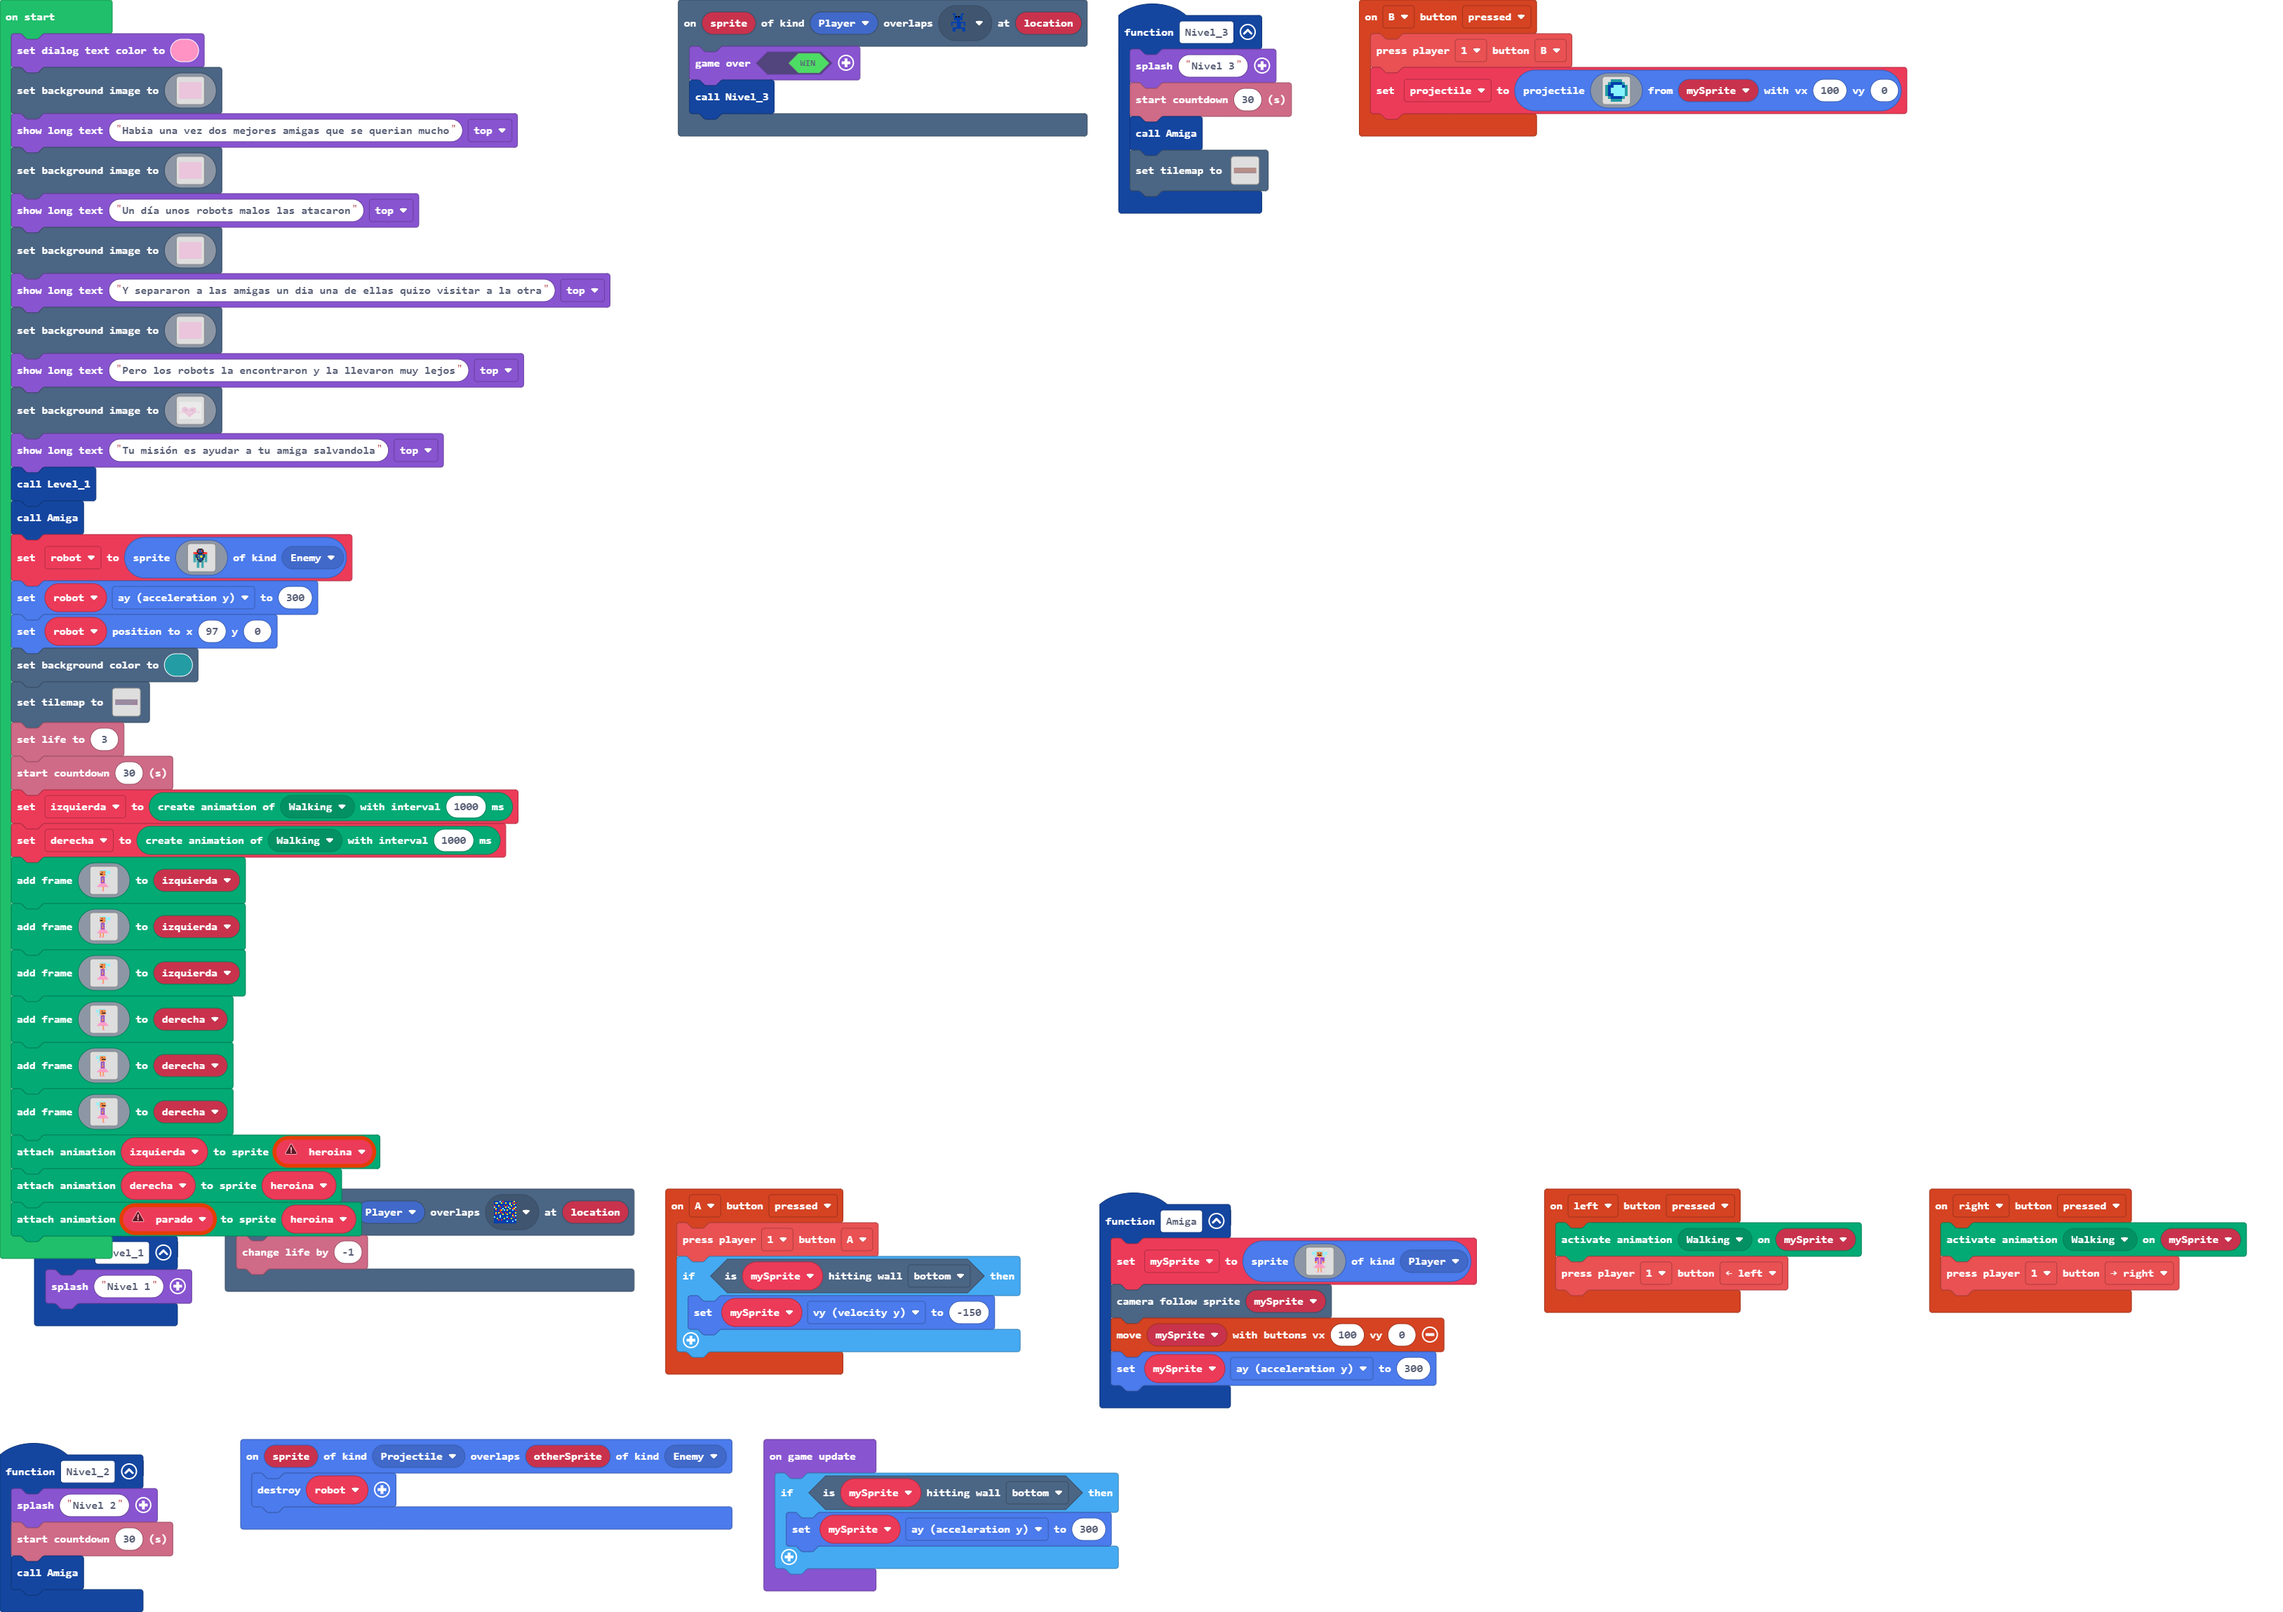
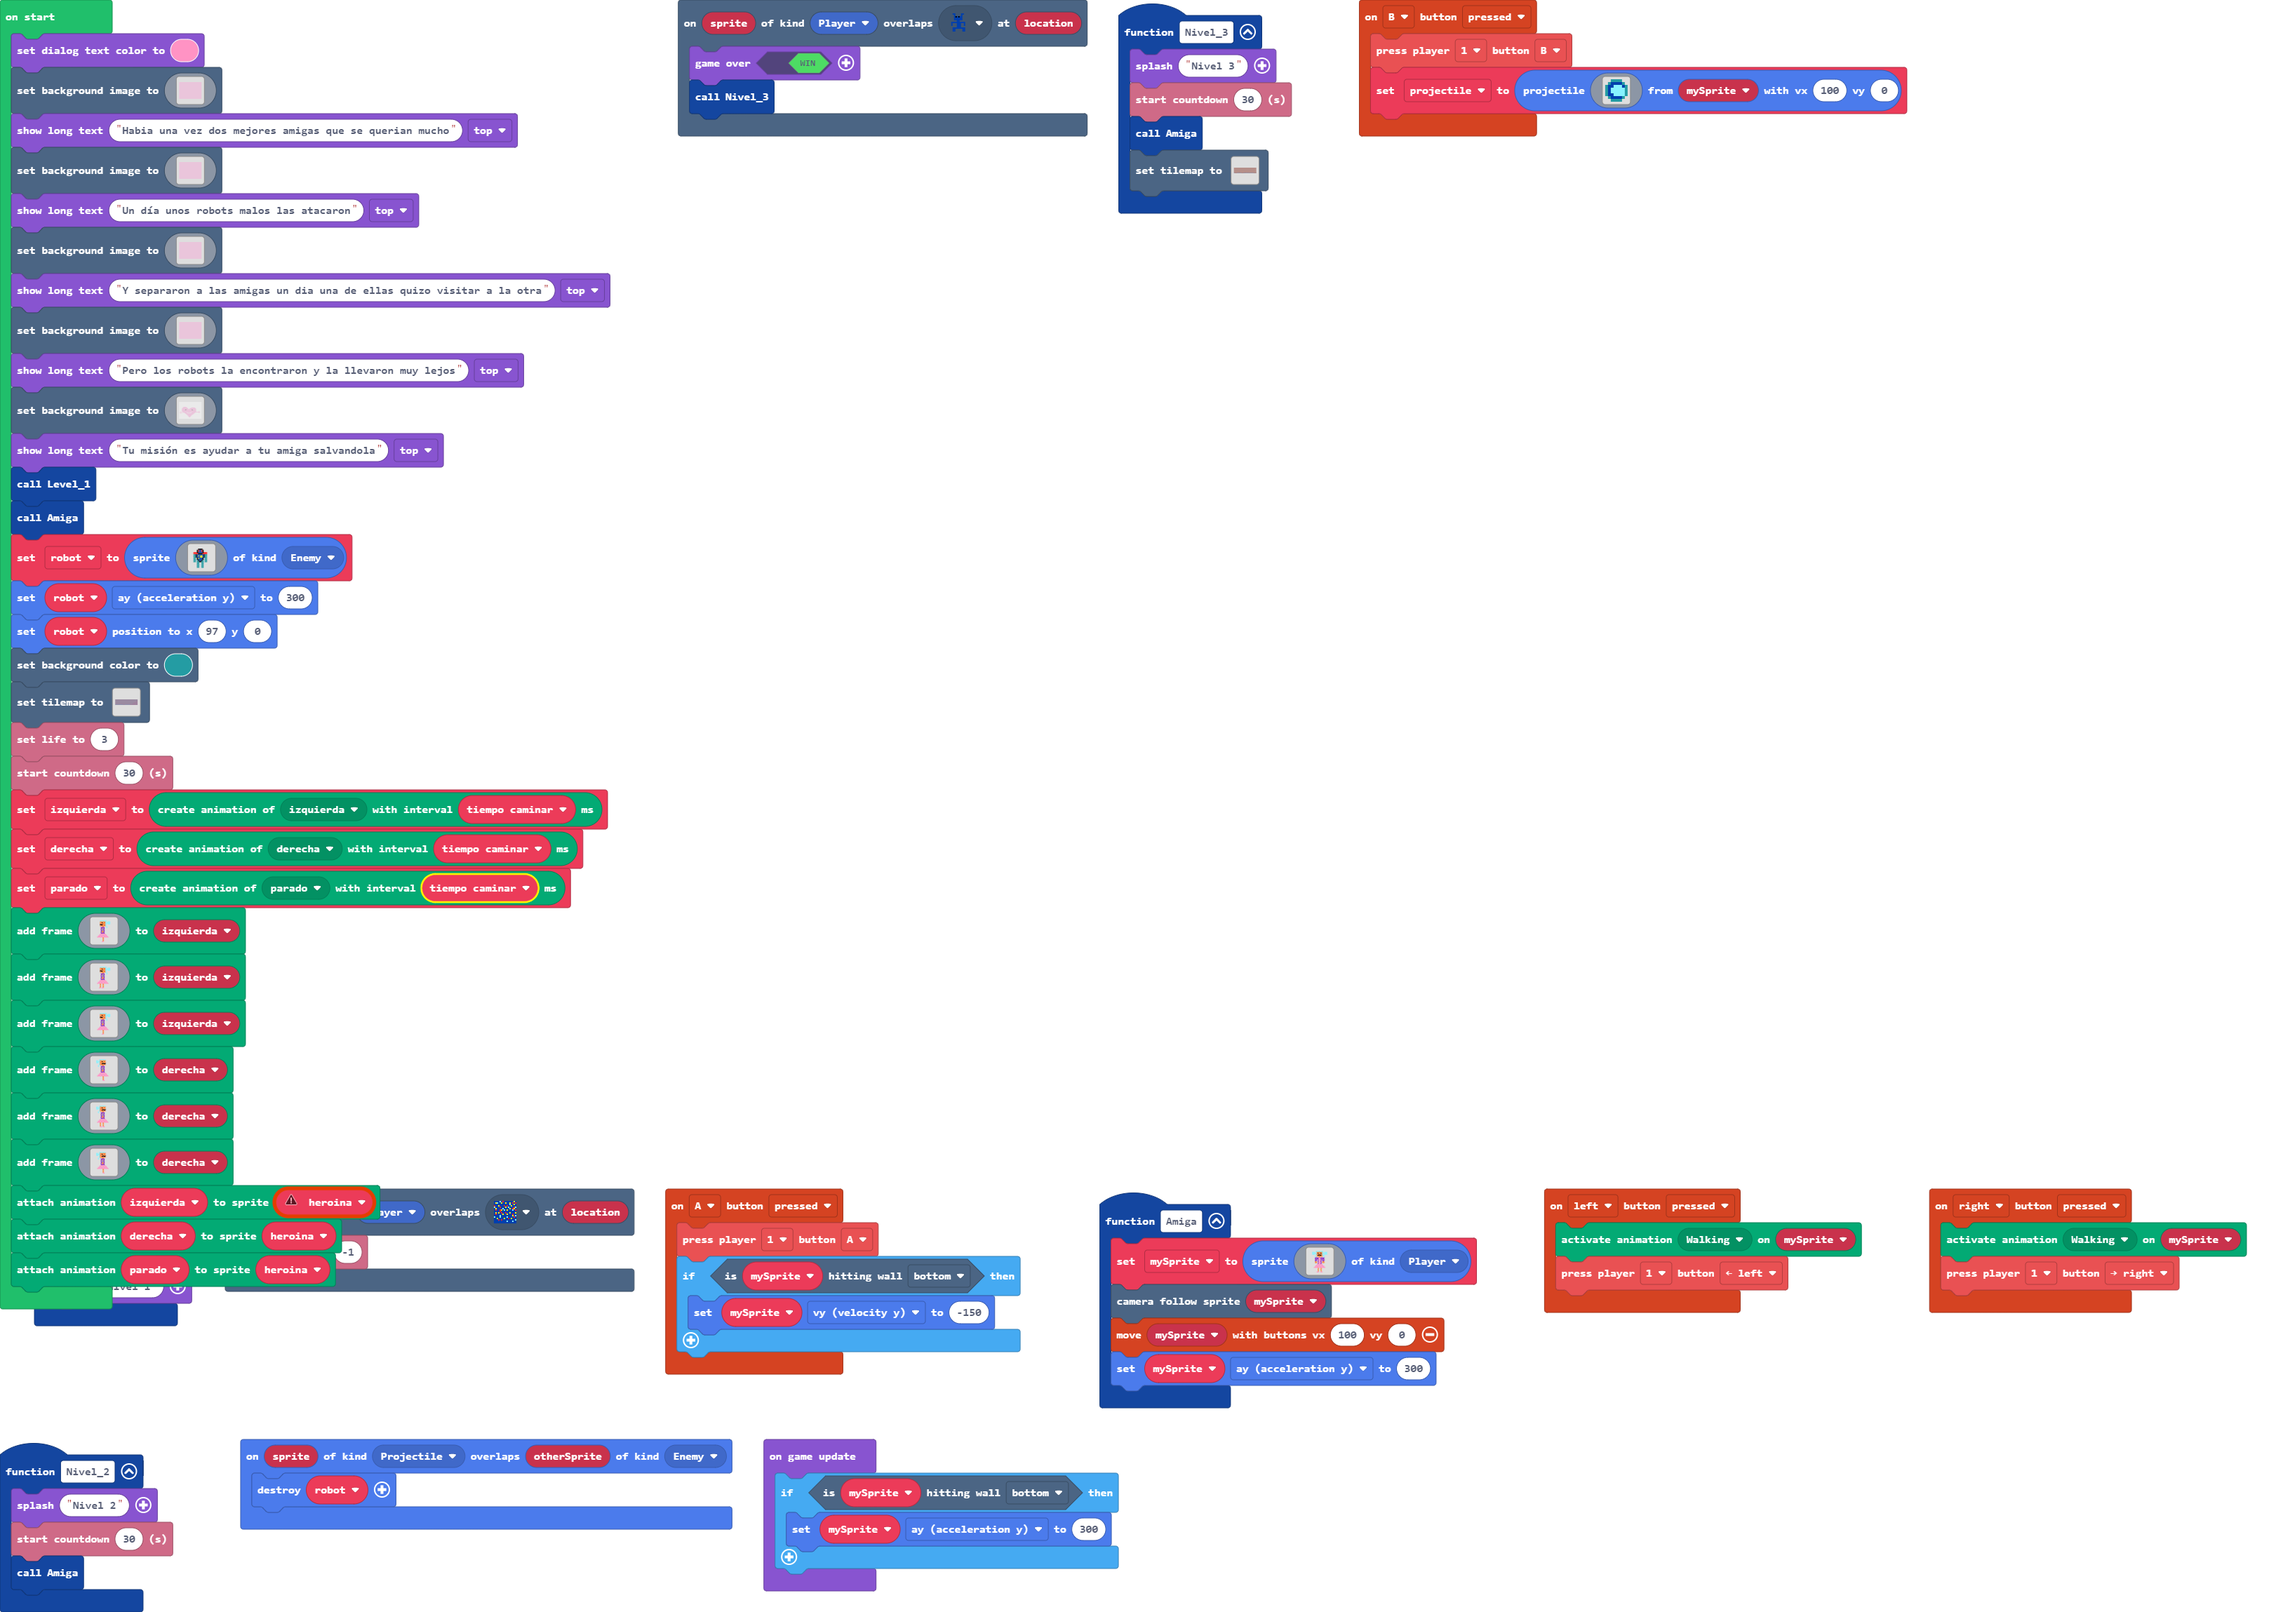
puse mas animacion

Changed region(s): [[0.0, 0.4634, 0.2793, 0.8342]]

diff --git a/main.ts b/main.ts
@@ -111,8 +111,8 @@ sprites.onOverlap(SpriteKind.Projectile, SpriteKind.Enemy, function (sprite, oth
 })
 let mySprite: Sprite = null
 let projectile: Sprite = null
-let parado: animation.Animation = null
 let heroina: Sprite = null
+let tiempo_caminar = 0
 let robot: Sprite = null
 game.setDialogTextColor(3)
 scene.setBackgroundImage(img`
@@ -777,8 +777,9 @@ tiles.setTilemap(tiles.createTilemap(hex`400010000303030303030303030303030303030
     `, [myTiles.transparency16,myTiles.tile3,myTiles.tile4,myTiles.tile5,myTiles.tile6], TileScale.Sixteen))
 info.setLife(3)
 info.startCountdown(30)
-let izquierda = animation.createAnimation(ActionKind.izquierda, 1000)
-let derecha = animation.createAnimation(ActionKind.derecha, 1000)
+let izquierda = animation.createAnimation(ActionKind.izquierda, tiempo_caminar)
+let derecha = animation.createAnimation(ActionKind.derecha, tiempo_caminar)
+let parado = animation.createAnimation(ActionKind.parado, tiempo_caminar)
 izquierda.addAnimationFrame(img`
     . . . . . . . . . . . . . . . . 
     . . . . 9 9 9 9 9 9 9 . . . . . 
